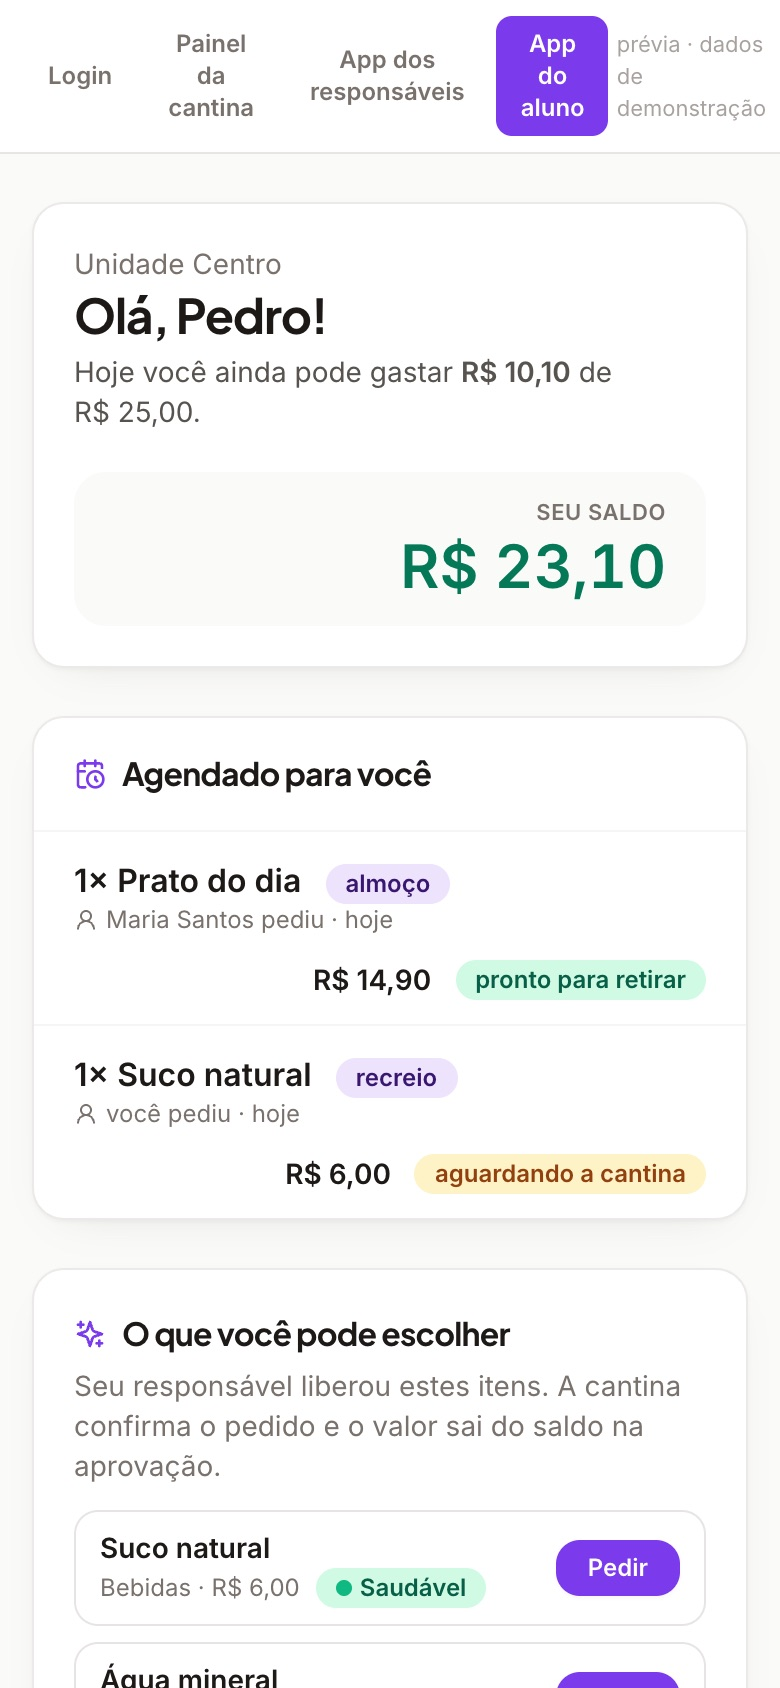
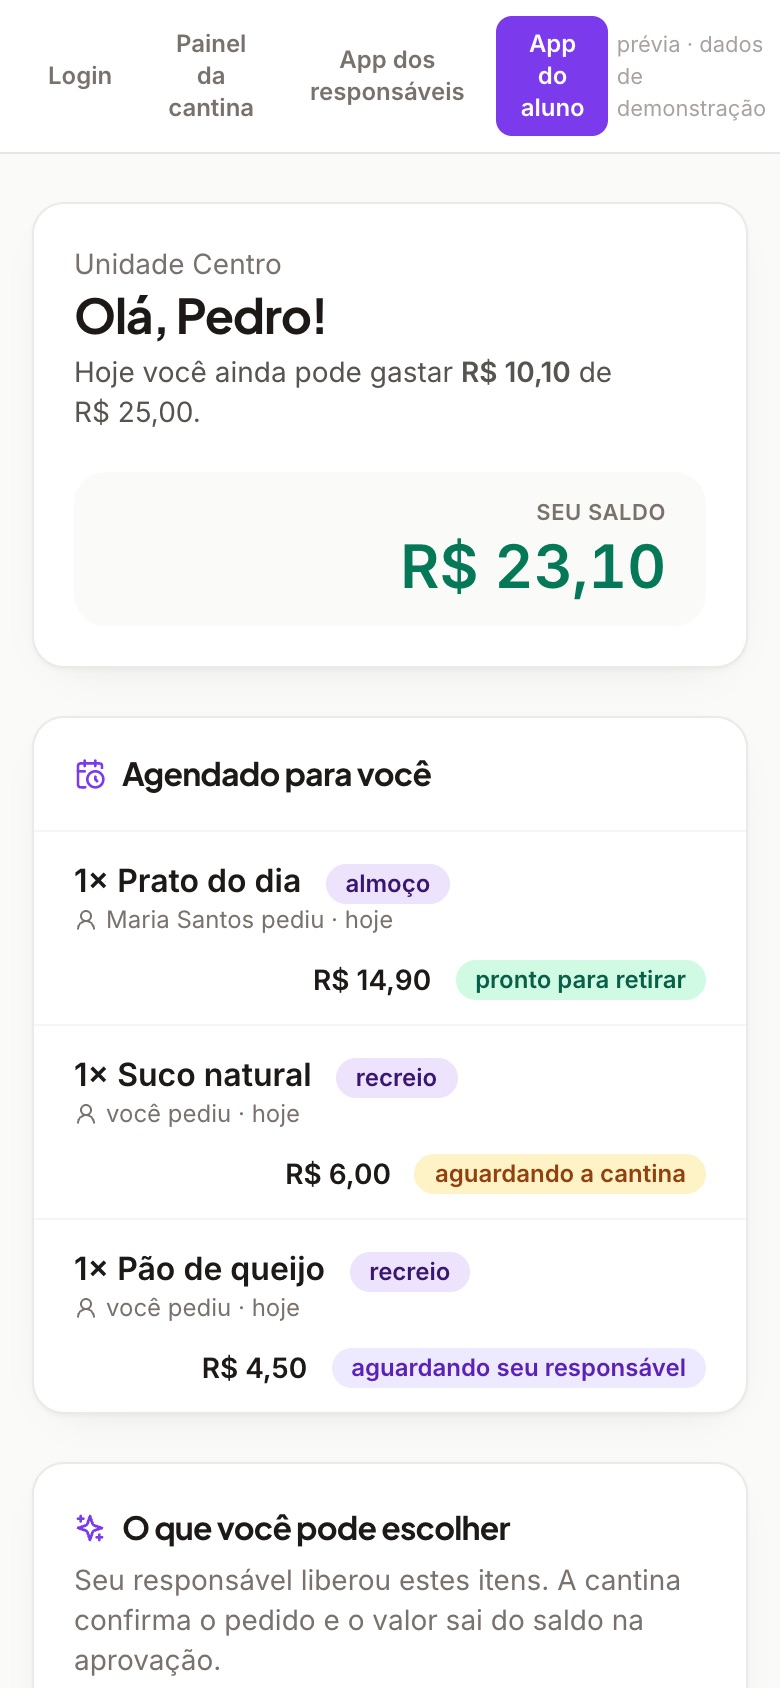
docs: MealMate guardian approval and cancelling of student orders

Changed region(s): [[0.0923, 0.7393, 0.8923, 1.0]]

diff --git a/data.js b/data.js
@@ -225,7 +225,7 @@ window.PORTFOLIO = {
           'Mesmas portas para SQLite e DynamoDB, suíte inteira rodando nos dois (LocalStack no CI); painel otimizado de 10,7 para 0,69 RCU/s por escola, medido em teste.',
           'Avisos por e-mail aos responsáveis (saldo baixo, pedido, compra bloqueada) e recuperação de senha com link assinado de uso único, sem tabela de tokens; cota diária compartilhada por todas as escolas num contador atômico do DynamoDB; domínio próprio por escola resolvido pelo host.',
           'App instalável (PWA com manifesto e ícone por escola), LGPD (consentimento versionado, exportação e exclusão de conta, anonimização de aluno, trilha de auditoria com expiração) e diferenciais de cantina: limite por dia da semana, selo nutricional, estoque com escrita condicional, horário de retirada, carteirinha com QR Code e caixa rápido pela câmera.',
-          'Acesso do próprio aluno com código e senha criados pelo responsável: vê saldo, limite do dia e o que foi agendado, e só pede sozinho se o responsável liberar e nas categorias escolhidas; bloqueios, alergias e limites valem sempre, e o aluno nunca adiciona crédito nem muda controles; o responsável recebe e-mail a cada pedido do aluno e todo login trava por 15 minutos após 5 senhas erradas.',
+          'Acesso do próprio aluno com código e senha criados pelo responsável: vê saldo, limite do dia e o que foi agendado, e só pede sozinho se o responsável liberar e nas categorias escolhidas; bloqueios, alergias e limites valem sempre, e o aluno nunca adiciona crédito nem muda controles; o responsável recebe e-mail a cada pedido do aluno (e pode exigir a própria aprovação antes da cantina), família cancela pedidos pendentes e todo login trava por 15 minutos após 5 senhas erradas.',
         ],
         en: [
           'Go 1.27 backend on stdlib + pure-Go SQLite (no CGO): hexagonal layout, ports for repositories/hasher/tokens, embedded migrations, money in integer cents.',
@@ -237,7 +237,7 @@ window.PORTFOLIO = {
           'Same ports for SQLite and DynamoDB, whole suite running on both (LocalStack in CI); dashboard cut from 10.7 to 0.69 RCU/s per school, measured in a test.',
           'E-mail alerts for guardians (low balance, pre-orders, blocked sales) and password reset with a signed single-use link, no token table; a daily e-mail budget shared by every school in an atomic DynamoDB counter; per-school custom domains resolved from the host.',
           'Installable app (PWA with per-school manifest and icon), LGPD/GDPR-style privacy (versioned consent, data export and account deletion, student anonymization, expiring audit trail) and canteen features: per-weekday limits, nutrition seals, stock with conditional writes, pickup slots, QR student cards and camera-based quick checkout.',
-          'Student login with a code and password set by the guardian: balance, today\'s limit and scheduled pre-orders; students order on their own only when the guardian allows it and from the chosen categories, with blocks, allergies and limits always enforced and no way to add credit or change controls; guardians get an e-mail for every student order, and every login locks for 15 minutes after 5 wrong passwords.',
+          'Student login with a code and password set by the guardian: balance, today\'s limit and scheduled pre-orders; students order on their own only when the guardian allows it and from the chosen categories, with blocks, allergies and limits always enforced and no way to add credit or change controls; guardians get an e-mail for every student order (and may require their own approval before the canteen), families cancel pending orders, and every login locks for 15 minutes after 5 wrong passwords.',
         ],
       },
     },
